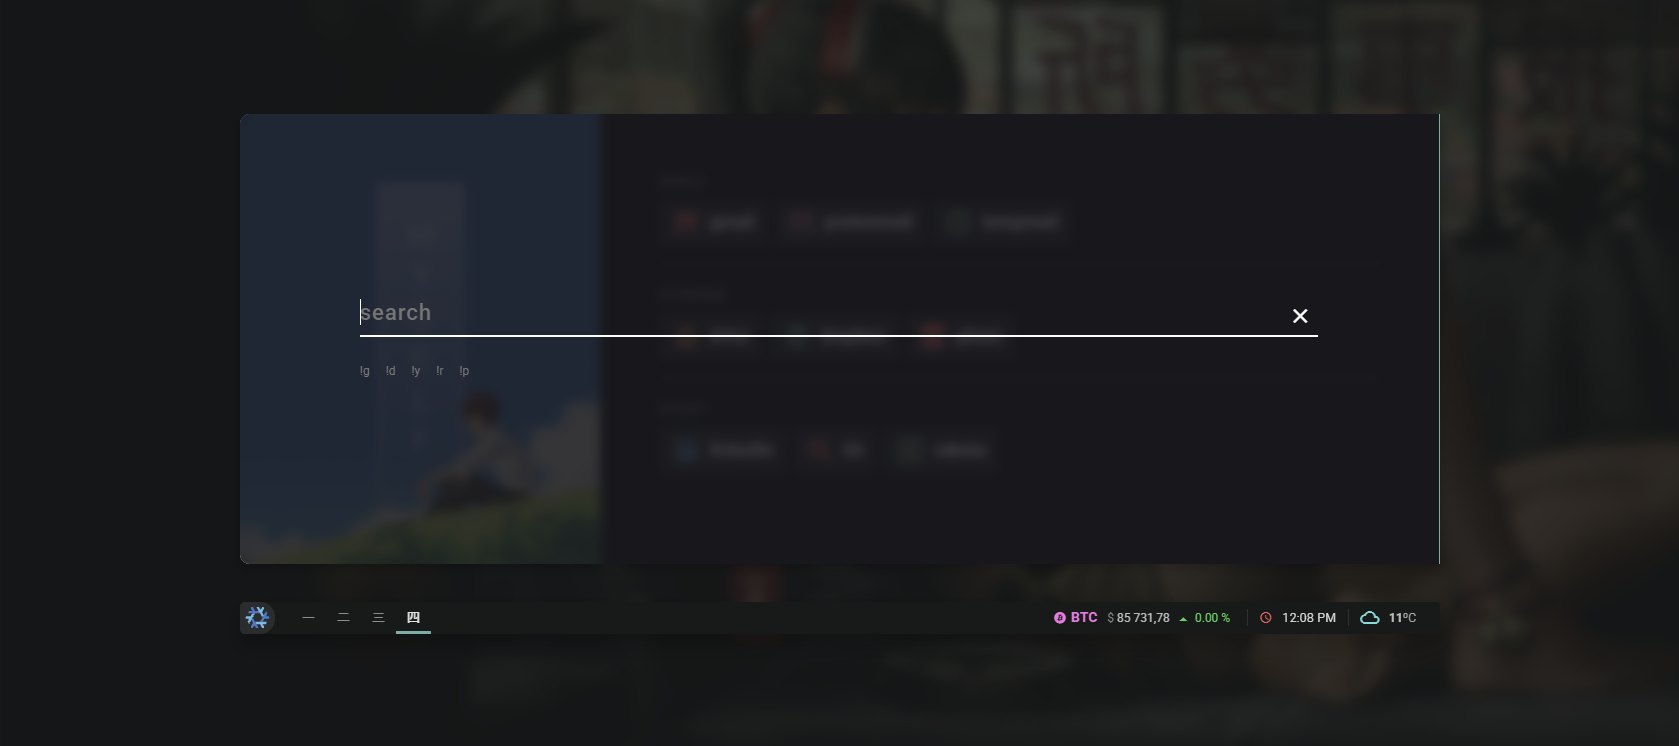
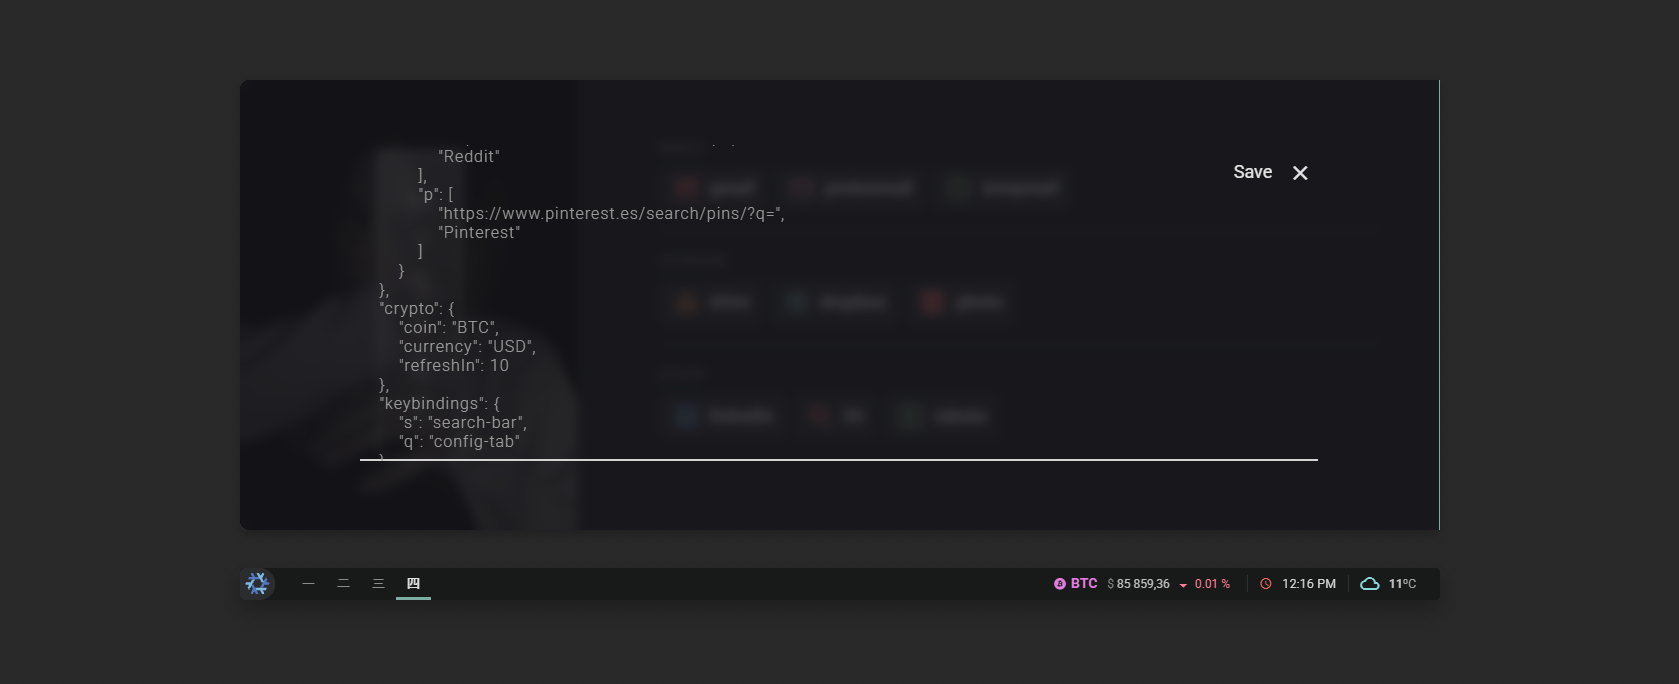
da

diff --git a/userconfig.js b/userconfig.js
@@ -26,7 +26,7 @@ const default_config = {
   },
   keybindings: {
     "s": "search-bar",
-    //"q": "config-tab",
+    "q": "config-tab",
   },
   disabled: [],
   localIcons: false,
@@ -366,8 +366,8 @@ const default_config = {
     },
     {
       name: "myself",
-      background_url: "src/img/banners/cbg-9.gif",
-      /*background_url: "src/img/banners/girlfriend/lizabg-4.gif",*/
+      /*background_url: "src/img/banners/cbg-9.gif",*/
+      background_url: "src/img/banners/girlfriend/lizabg-4.gif",
       categories: [
         {
           name: "mails",
